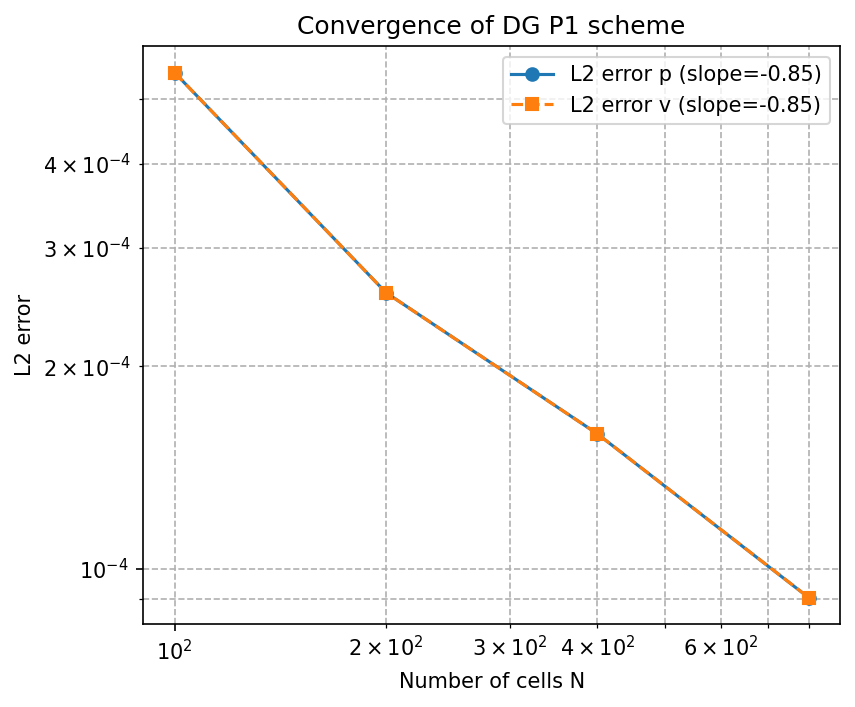
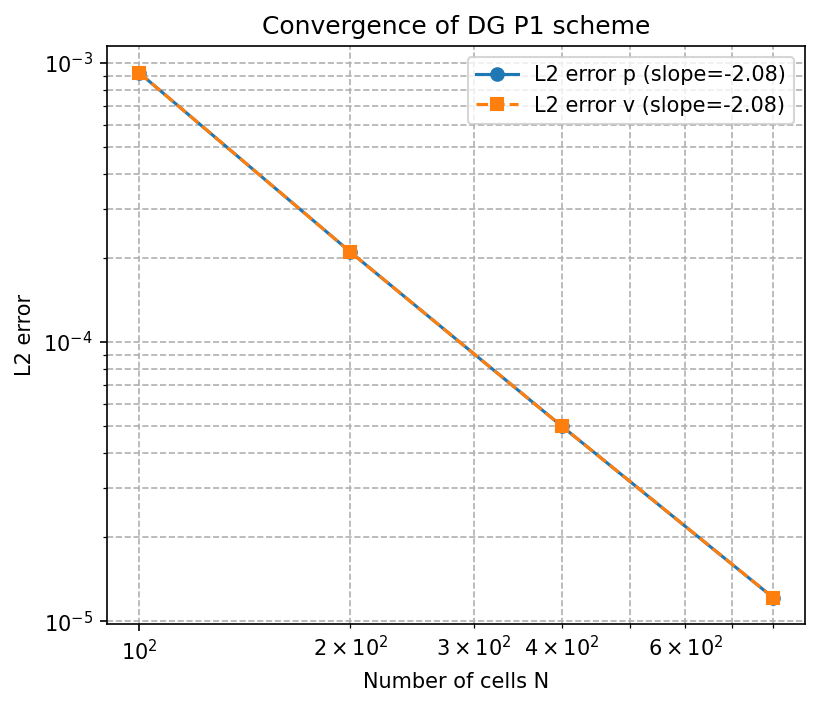
modify dg.py to compute rk2 or euler method depending on user argument and test the convergence Also modifying time loop to be jax.jit compatible

diff --git a/dg.py b/dg.py
@@ -7,6 +7,8 @@ import csv
 import os
 import pandas as pd
 import numpy as np
+import argparse
+from jax import lax
 
 # -------------------------
 # mesh / basis 
@@ -51,7 +53,6 @@ def rusanov_flux(U_L, U_R, A,smax):
 # -------------------------
 # local volume term for system
 # -------------------------
-@jax.jit(static_argnums=(4,))
 def local_volume_system(u_cell, xL, xR, A, nq=24):
     h = xR - xL
     xq = jnp.linspace(xL, xR, nq)
@@ -87,7 +88,6 @@ v_local_volume_system = jax.vmap(local_volume_system, in_axes=(0, 0, 0, None, No
 
 # implement surface term with that layout
 
-@jax.jit
 def surface_term_system(u_cells, j, A, smax):
     N = u_cells.shape[0]
     # left interface between j-1 and j
@@ -110,17 +110,14 @@ v_surface_term_system = jax.vmap(surface_term_system, in_axes=(None, 0, None, No
 # -------------------------
 # assembly RHS for all elements
 # -------------------------
-@jax.jit
-def dg_rhs_system(u_cells, x_nodes, A, smax):
+def dg_rhs_system(u_cells, x_nodes, A, smax, M_inv_all):
     xLs, xRs = cell_edges_from_nodes(x_nodes)
     N = u_cells.shape[0]
   
     V_all = jax.vmap(lambda Ue, xL, xR: local_volume_system(Ue, xL, xR, A, 24))(u_cells, xLs, xRs)
 
     S_all = jax.vmap(lambda j: surface_term_system(u_cells, j, A, smax))(jnp.arange(N))
-    
-    hs = xRs - xLs
-    M_inv_all = jax.vmap(lambda h: local_mass_inv(h))(hs)  
+     
     
     def element_rhs(e):
         Vi = V_all[e]  
@@ -136,18 +133,18 @@ def dg_rhs_system(u_cells, x_nodes, A, smax):
 # RK2 step
 # -------------------------
 @jax.jit
-def rk2_step_system(u_cells, x_nodes, A, smax, dt):
-    k1 = dg_rhs_system(u_cells, x_nodes, A, smax)
+def rk2_step_system(u_cells, x_nodes, A, smax, dt, M_inv_all):
+    k1 = dg_rhs_system(u_cells, x_nodes, A, smax, M_inv_all)
     u_mid = u_cells + 0.5 * dt * k1
-    k2 = dg_rhs_system(u_mid, x_nodes, A, smax)
+    k2 = dg_rhs_system(u_mid, x_nodes, A, smax, M_inv_all)
     return u_cells + dt * k2
 
 # -------------------------
 # Euler step
 # -------------------------
 @jax.jit
-def euler_step_system(u_cells, x_nodes, A, smax, dt):
-    k1 = dg_rhs_system(u_cells, x_nodes, A, smax)  # (N,2,2)
+def euler_step_system(u_cells, x_nodes, A, smax, dt, M_inv_all):
+    k1 = dg_rhs_system(u_cells, x_nodes, A, smax, M_inv_all)  # (N,2,2)
     return u_cells + dt * k1
 
 # -------------------------
@@ -181,22 +178,56 @@ def analytic_solution_pv(x_plot, p0_fun, c, t):
     return p_exact, v_exact, w_plus, w_minus
 
 
+def time_integrate_euler(u0, x_nodes, A, smax, dt, nsteps, M_inv_all):
+
+    def step(u, _):
+        u_next = euler_step_system(u, x_nodes, A, smax, dt, M_inv_all)
+        return u_next, None
+
+    u_final, _ = lax.scan(step, u0, None, length=nsteps)
+    return u_final
+
+def time_integrate_rk2(u0, x_nodes, A, smax, dt, nsteps, M_inv_all):
+
+    def step(u, _):
+        u_next = rk2_step_system(u, x_nodes, A, smax, dt, M_inv_all)
+        return u_next, None
+
+    u_final, _ = lax.scan(step, u0, None, length=nsteps)
+    return u_final
 
 
+def parse_args():
+    parser = argparse.ArgumentParser(description="DG P1 1D linear wave")
+    parser.add_argument("--method", type=str, default="rk2",
+                        choices=["euler", "rk2"],
+                        help="Time integration method")
+    parser.add_argument("--N", type=int, default=200,
+                        help="Number of cells")
+    parser.add_argument("--CFL", type=float, default=0.05,
+                        help="CFL number")
+    parser.add_argument("--tfinal", type=float, default=0.2,
+                        help="Final time")
+    return parser.parse_args()
 # -------------------------
 # test: p0 gaussian, v0=0
 # -------------------------
 def main():
 
 
-    
+    args = parse_args()
+
+    method = args.method
+    N = args.N
+    CFL = args.CFL
+    t_final = args.tfinal
 
     # physical params
     c = 1.0
     A = jnp.array([[0.0, c],[c, 0.0]])
     smax = jnp.max(jnp.abs(jnp.linalg.eigvals(A)))
     print('smax',smax)
-
+    CFL = 0.05
     # initial condition: p0 gaussian, v0 = 0
     def p0(x):
         x0 = 0.5
@@ -228,13 +259,14 @@ def main():
 
         x_nodes = create_uniform_nodes(N)
         xLs, xRs = cell_edges_from_nodes(x_nodes)
+        hs = xRs - xLs
+        M_inv_all = jax.vmap(local_mass_inv)(hs)
     
         # build u_cells array 
         u_cells = jnp.stack([jnp.stack([jnp.array([p0(xLs[i]), p0(xRs[i])]),
                                         jnp.array([v0(xLs[i]), v0(xRs[i])])]) for i in range(N)], axis=0)
 
         # time step (CFL)
-        CFL = 0.01
         h = xRs[0] - xLs[0]
         print('h',h)
         dt = CFL * h / smax
@@ -246,9 +278,11 @@ def main():
 
         u = u_cells.copy()
         stat_time = time.time()
-        for n in range(nsteps):
-            #u = rk2_step_system(u, x_nodes, Flux, A, smax, dt)
-            u = euler_step_system(u, x_nodes, A, smax, dt)
+    
+        if method == "euler":
+            u = time_integrate_euler(u, x_nodes, A, smax, dt, nsteps, M_inv_all)
+        else:
+            u = time_integrate_rk2(u, x_nodes, A, smax, dt, nsteps, M_inv_all)
         end_time = time.time()
 
         duration = end_time - stat_time
@@ -266,9 +300,11 @@ def main():
         nsteps = int(jnp.ceil(t_final_2 / dt))
         print('nsteps',nsteps)
         
-        for n in range(nsteps):
-            #u = rk2_step_system(u, x_nodes, Flux, A, smax, dt)
-            u = euler_step_system(u, x_nodes, A, smax, dt)
+        if method == "euler":
+            u = time_integrate_euler(u, x_nodes, A, smax, dt, nsteps, M_inv_all)
+        elif method == "rk2":
+            u = time_integrate_rk2(u, x_nodes, A, smax, dt, nsteps, M_inv_all)
+        
         
        
         p_rec2, v_rec2 = reconstruct_system(u, x_nodes, x_plot)

diff --git a/Report&Presentation/report.tex b/Report&Presentation/report.tex
@@ -209,11 +209,28 @@ Recovering $(p,v)$ gives the explicit d'Alembert-type solution
 \begin{align}
     p(x,t) &= \tfrac12\bigl[r_0(x-ct)+s_0(x+ct)\bigr] \nonumber\\
                  &= \tfrac12\bigl[p_0(x-ct)+p_0(x+ct)\bigr] 
-                        + \tfrac12\bigl[v_0(x-ct)-v_0(x+ct)\bigr], \\
+                        + \tfrac12\bigl[v_0(x-ct)-v_0(x+ct)\bigr] \label{eq:solution_p}, \\
     v(x,t) &= \tfrac12\bigl[r_0(x-ct)-s_0(x+ct)\bigr] \nonumber\\
                  &= \tfrac12\bigl[v_0(x-ct)+v_0(x+ct)\bigr] 
-                        + \tfrac12\bigl[p_0(x-ct)-p_0(x+ct)\bigr].
+                        + \tfrac12\bigl[p_0(x-ct)-p_0(x+ct)\bigr] \label{eq:solution_v}.
 \end{align}
+
+\subsection{Numerical Results}
+
+Let's see the result of the Discontinuous Galerkin Method implementation : 
+
+\begin{figure}[htbp]
+    \centering
+    % Remplacez 'figs/dg_solution.png' par le chemin et l'extension réels de votre image (pdf, png, jpg...)
+    \includegraphics[width=0.9\textwidth]{Images/dg_solution.png}
+    \caption{DG numerical solutions for pressure and acoustic volume velocity.}
+    \label{fig:dg_solution}
+\end{figure}
+
+As shown in Figure \ref{fig:dg_solution}, the numerical solution obtained using the Discontinuous Galerkin Method accurately captures 
+the wave propagation over time described in \ref{eq:solution_p} and \ref{eq:solution_v}. The method effectively resolves the wave fronts 
+and maintains stability throughout the simulation.
+
 
 \newpage
 \printbibliography
